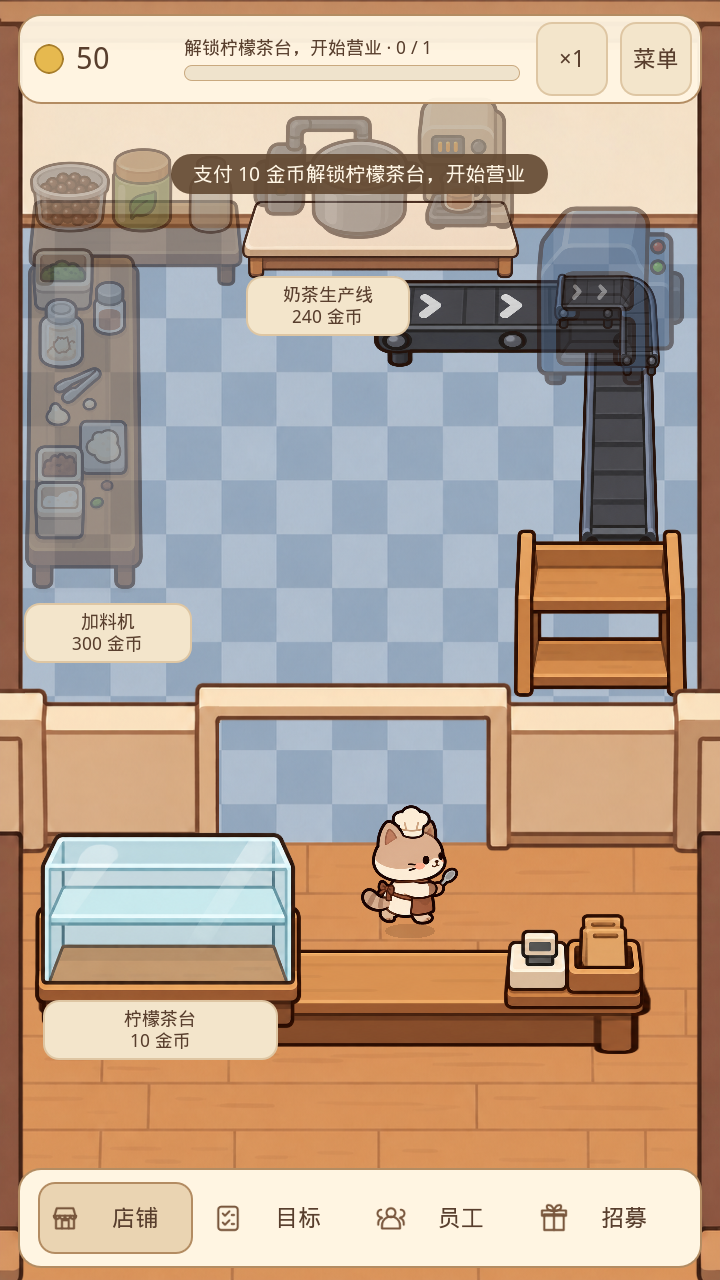
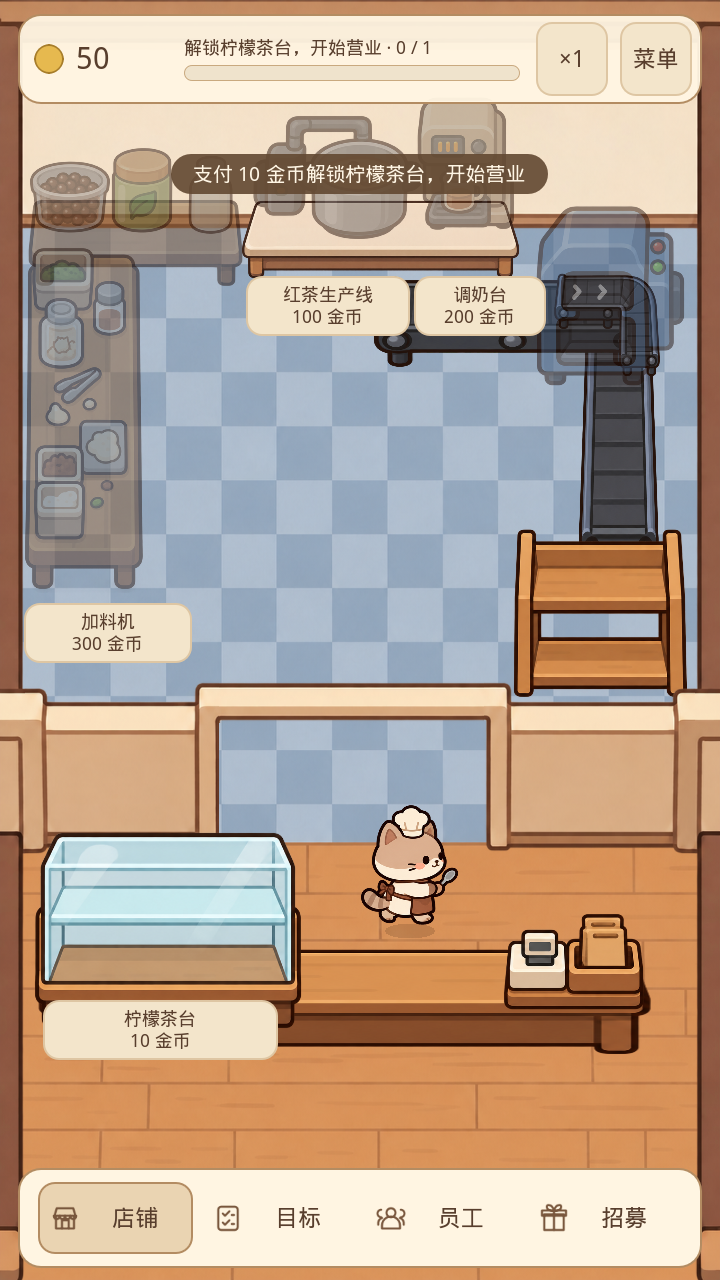
奶茶线分段解锁：先开红茶线，再开调奶台
- 美术店铺改用 art_shop_progression.tres 四段表：柠檬茶 → 红茶生产线（原料柜、煮茶、封口，营业额 100 付 100）→ 调奶台（400 付 200）→ 加料机（1500 付 300）；旧版 GameSim 仍读 tea.tres 三段表
- 新饮品红茶（28 金）：茶汤直接送封口机封成红茶上货架；调奶台开后茶汤分给红茶（只补到 3 杯）和奶茶
- 有顾客等着货架上没货的饮品时，后厨任务优先级上调，唯一员工也会去开新产线
- 调奶台有自己的解锁牌，货架随封口机出现，红茶杯染茶色
- 存档版本升到 2；测试和 QA 截图按新的解锁顺序更新

Claude-Session: https://claude.ai/code/session_01CUUWFWCU7qrMuD7wowAfnP

Changed region(s): [[0.55, 0.2188, 0.7639, 0.2812], [0.3972, 0.2188, 0.4278, 0.25]]

diff --git a/docs/qa/tea-business.md b/docs/qa/tea-business.md
@@ -5,7 +5,8 @@
 ## 开店与升级
 
 - F5 打开默认美术场景，新档有 50 金币和已派出的小猫。点击前台展示柜的 10 金币价格牌，解锁柠檬茶后员工开始取杯与服务顾客。
-- 营业额达到 300，点击奶茶生产线并支付 240，一次开放原料柜、煮茶、调奶、封口；营业额达到 1500，支付 300 开放加料。
+- 2026-10-29 改为分段开线，每段开完就有能卖的新饮品：营业额 100 支付 100 开红茶生产线（原料柜、煮茶、封口），煮好的茶汤直接送封口成红茶（28 金）上货架；营业额 400 支付 200 开调奶台，茶汤在红茶和奶茶之间分（红茶只补到 3 杯）；营业额 1500 支付 300 开放加料。柠檬茶仍是前台现倒，不封口。
+- 美术店铺的阶段表在 `content/tea/art_shop_progression.tres`，旧版 GameSim 仍用 `tea.tres` 的三段表。有顾客在等货架上没货的饮品时，后厨任务优先级上调，避免唯一员工一直在倒柠檬茶、新产线永远不开工。存档版本升到 2，旧档会备份后重开。
 - 点击已开放设备的图像进入详情，升级会支付真实金币并改变真实加工效率。原料柜中的茶叶成长影响取料/煮茶，牛奶成长影响调奶。
 - 加料设备等级开放珍珠、椰果、红豆和芋泥；配料升级改变对应饮品的真实售价。每杯口味从生产、封口、运输、货架到订单交付保持一致。
 - 顶部菜单中的经营目标显示原配置的真实销量和设备等级任务。没有新增未经确认的任务奖励或换店规则。

diff --git a/README.md b/README.md
@@ -1,6 +1,6 @@
 # eatvenLike
 
-当前默认进入**奶茶店经营版**，使用现有分层美术运行真实制作、搬运和配送。新店 50 金币与一名小猫，点展示柜解锁柠檬茶；营业额到 300 后支付 240 解锁奶茶线，到 1500 后支付 300 解锁加料。点已开放的设备可升级机器或配料，口味等级与实际售价同步变化，顶部菜单可查看真实经营任务。
+当前默认进入**奶茶店经营版**，使用现有分层美术运行真实制作、搬运和配送。新店 50 金币与一名小猫，点展示柜解锁柠檬茶；营业额到 100 后支付 100 开红茶线（原料柜、煮茶、封口），到 400 后支付 200 开调奶台出原味奶茶，到 1500 后支付 300 解锁加料。点已开放的设备可升级机器或配料，口味等级与实际售价同步变化，顶部菜单可查看真实经营任务。
 
 底部为店铺、建造、员工、招募入口。普通招募获得的伙伴进入待派遣名册，可派到店内、收回、培养，也可直接拖卡片到工位完成派遣和坐班。员工拥有关系、培养等级与店内状态独立保存，重开店铺保留已拥有员工和培养。建造与高级招募仍未开放。支持人工/传送带运输及1/2/4倍速。
 
